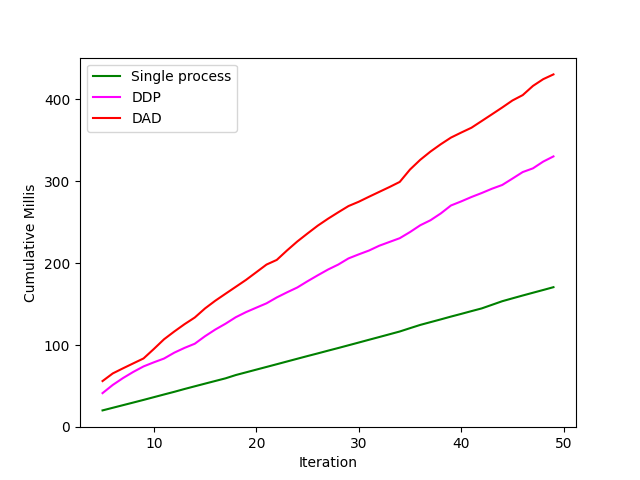
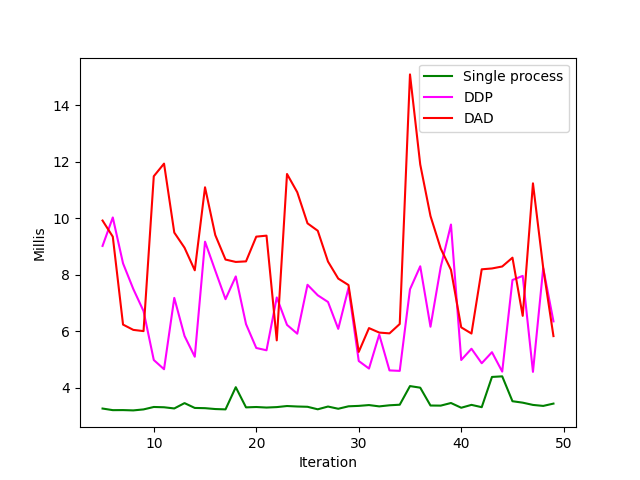
Runtime experiment.

diff --git a/examples/runtime_plotter.py b/examples/runtime_plotter.py
@@ -17,20 +17,29 @@ if len(sys.argv) > 1:
 
 skip = 5
 data = []
+data_cumu = []
 for p in paths:
     if not p.endswith('.json'):
         p = p + os.sep + 'experiment' + os.sep + 'experiment_log.json'
         
     j = json.load(open(p))
-    data.append(np.cumsum(j['batch_run_time'][skip:]))
+    data.append(j['batch_run_time'][skip:])
+    data_cumu.append(np.cumsum(j['batch_run_time'][skip:]))
 data = np.array(data).T
+data_cumu = np.array(data_cumu).T
 
 colors = ['green', 'magenta', 'red']
 header = ['Single process', 'DDP', 'DAD']
 df = pd.DataFrame(data=data, columns=header)[skip:]
+df.plot(color=colors)
+plt.ylabel('Millis')
+plt.xlabel('Iteration')
+plt.savefig('runtime-compare.png')
+plt.close('all')
 
+df = pd.DataFrame(data=data_cumu, columns=header)[skip:]
 df.plot(color=colors)
 plt.ylabel('Cumulative Millis')
 plt.xlabel('Iteration')
-plt.savefig('runtime-compare.png')
+plt.savefig('runtime-compare_cumulative.png')
 plt.close('all')
